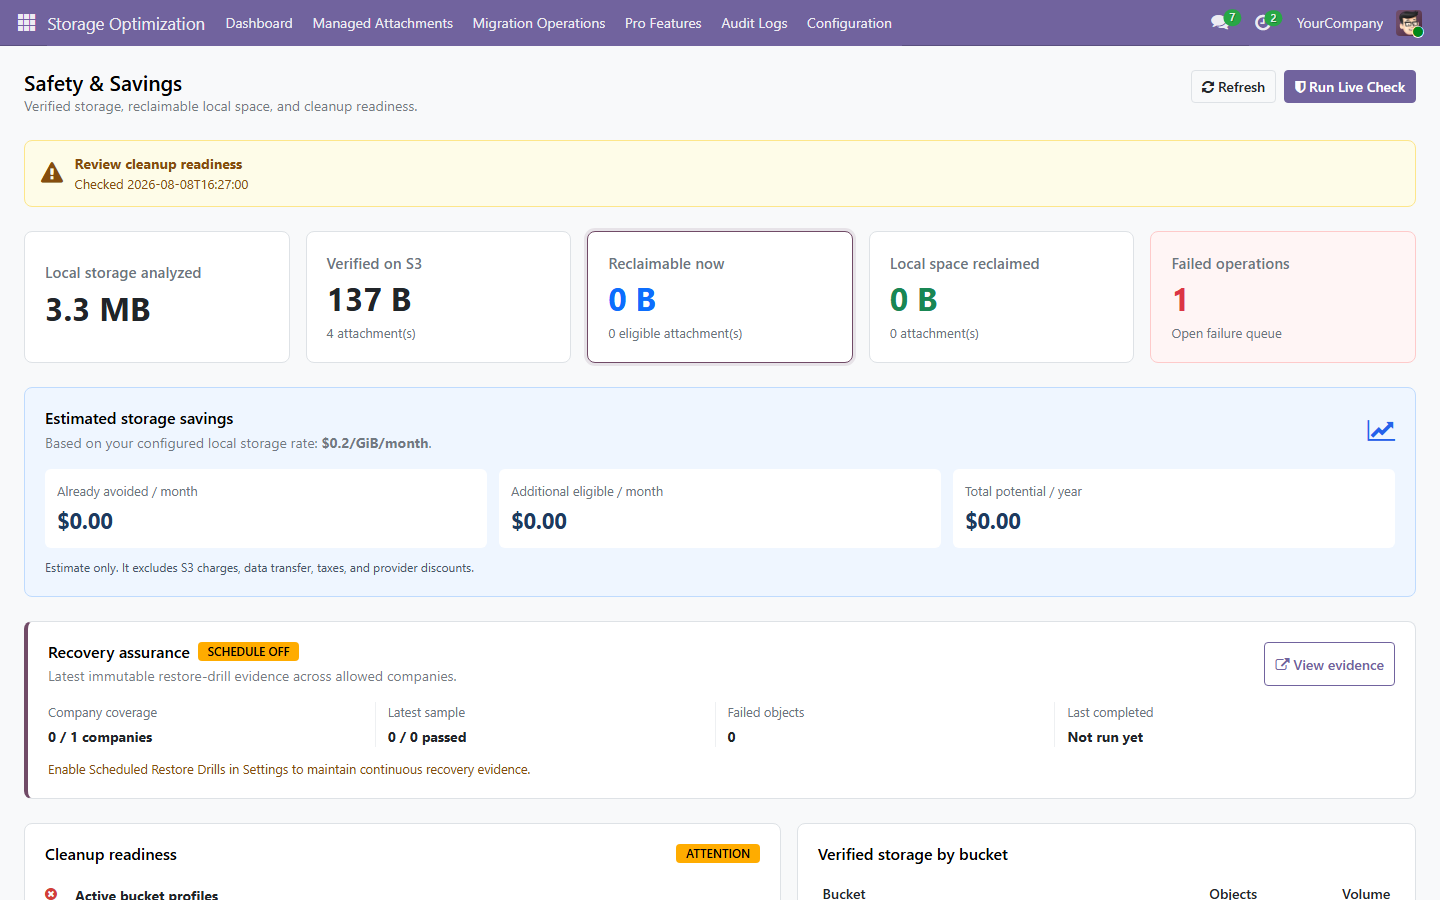
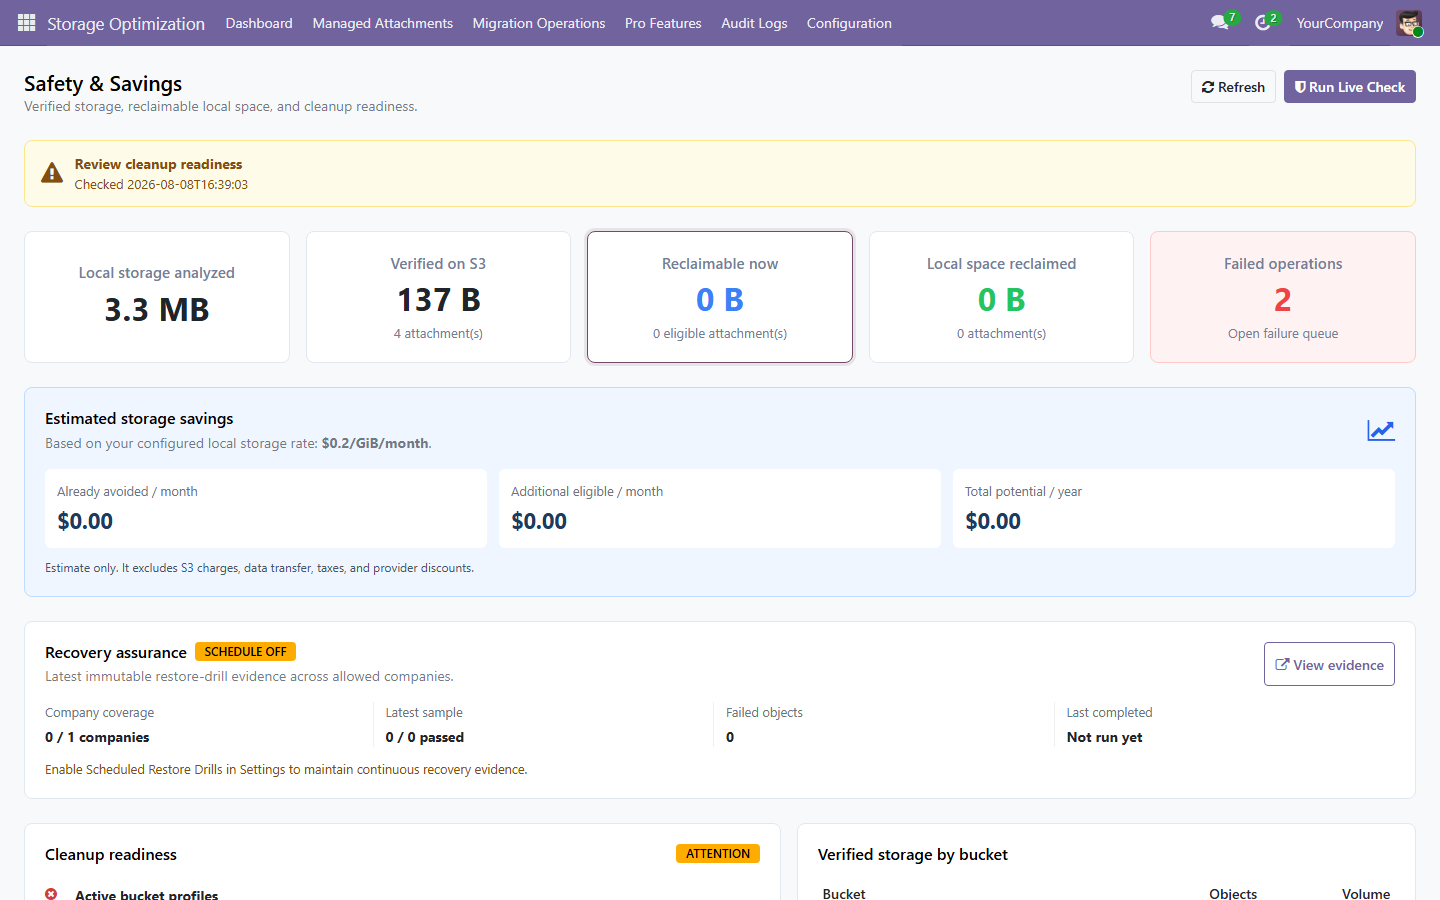
Align Pro dashboard visuals with Free

diff --git a/attachment_optimizer_pro/static/src/components/pro_dashboard/pro_dashboard.scss b/attachment_optimizer_pro/static/src/components/pro_dashboard/pro_dashboard.scss
@@ -1,10 +1,17 @@
 .o_pro_safety_dashboard {
     width: 100%;
+    max-width: none;
     margin: 0;
     padding: 24px;
     box-sizing: border-box;
     min-height: 100%;
     position: relative;
+}
+
+html .o_web_client .o_action_manager .o_pro_safety_dashboard {
+    width: 100%;
+    max-width: none;
+    margin: 0;
 }
 
 .o_pro_dashboard_header,
@@ -44,11 +51,12 @@
     min-width: 0;
     min-height: 124px;
     padding: 20px;
-    border: 1px solid #dee2e6;
+    border: 1px solid #e2e8f0;
     border-radius: 8px;
     background: var(--o-view-background-color, #fff);
     color: inherit;
-    text-align: left;
+    text-align: center;
+    align-items: center;
     display: flex;
     flex-direction: column;
     justify-content: center;
@@ -60,15 +68,15 @@
     font-variant-numeric: tabular-nums;
 }
 .o_pro_kpi_card small,
-.o_pro_kpi_label { color: var(--o-gray-600, #6c757d); }
+.o_pro_kpi_label { color: #718096; }
 .o_pro_kpi_label { font-size: .95rem; font-weight: 600; }
 .o_pro_kpi_action { cursor: pointer; transition: border-color .15s ease, box-shadow .15s ease; }
 .o_pro_kpi_action:hover,
 .o_pro_kpi_action:focus-visible { border-color: var(--o-brand-primary, #714b67); box-shadow: 0 0 0 3px rgba(113, 75, 103, .12); outline: 0; }
-.o_pro_kpi_primary strong { color: #0d6efd; }
-.o_pro_kpi_success strong { color: #198754; }
-.o_pro_kpi_danger { background: #fff5f5; border-color: #fecaca; }
-.o_pro_kpi_danger strong { color: #dc3545; }
+.o_pro_kpi_primary strong { color: #3b82f6; }
+.o_pro_kpi_success strong { color: #22c55e; }
+.o_pro_kpi_danger { background: #fef2f2; border-color: #fecaca; }
+.o_pro_kpi_danger strong { color: #ef4444; }
 
 .o_pro_savings_panel {
     margin-bottom: 24px;
@@ -104,8 +112,7 @@
 .o_pro_assurance_panel {
     margin-bottom: 24px;
     padding: 20px;
-    border: 1px solid #dee2e6;
-    border-left: 4px solid var(--o-brand-primary, #714b67);
+    border: 1px solid #e2e8f0;
     border-radius: 8px;
     background: var(--o-view-background-color, #fff);
 }
@@ -130,7 +137,7 @@
 .o_pro_assurance_hint { margin-top: 12px; color: #854d0e; font-size: .8rem; }
 .o_pro_assurance_error { color: #b42318; }
 .o_pro_dashboard_columns { display: grid; grid-template-columns: 1.1fr .9fr; gap: 16px; }
-.o_pro_panel { background: var(--o-view-background-color, #fff); border: 1px solid #dee2e6; border-radius: 8px; padding: 20px; }
+.o_pro_panel { background: var(--o-view-background-color, #fff); border: 1px solid #e2e8f0; border-radius: 8px; padding: 20px; }
 .o_pro_panel_header { align-items: center; margin-bottom: 12px; }
 .o_pro_check_list { display: flex; flex-direction: column; }
 .o_pro_check { display: grid; grid-template-columns: 20px 1fr; gap: 10px; padding: 10px 0; border-top: 1px solid #eef0f2; }

diff --git a/attachment_optimizer_pro/static/description/index.html b/attachment_optimizer_pro/static/description/index.html
@@ -96,6 +96,6 @@ For subsequent modules, update content inside sections only. Do not alter sectio
     </div>
 
     <!-- FOOTER -->
-    <div style="border:1px solid #e2e8f0; border-radius:16px; padding:32px 24px; margin:40px 0 16px; text-align:center;"><div style="font-size:14px; font-weight:700; color:#1e293b; text-transform:uppercase;">Attachment Optimizer Pro</div><p style="font-size:13px; color:#64748b; line-height:1.6;">Automated, verified S3-compatible attachment lifecycle management for Odoo.</p><div style="display:inline-block; border:2px solid #4f46e5; color:#4f46e5; font-weight:700; font-size:13px; padding:10px 28px; border-radius:8px;">US$49 · One-Time · No Subscription</div><p style="font-size:11px; color:#94a3b8; margin:20px 0 0;">Version 19.0.1.0.18 · Built and maintained by FoxPink</p></div>
+    <div style="border:1px solid #e2e8f0; border-radius:16px; padding:32px 24px; margin:40px 0 16px; text-align:center;"><div style="font-size:14px; font-weight:700; color:#1e293b; text-transform:uppercase;">Attachment Optimizer Pro</div><p style="font-size:13px; color:#64748b; line-height:1.6;">Automated, verified S3-compatible attachment lifecycle management for Odoo.</p><div style="display:inline-block; border:2px solid #4f46e5; color:#4f46e5; font-weight:700; font-size:13px; padding:10px 28px; border-radius:8px;">US$49 · One-Time · No Subscription</div><p style="font-size:11px; color:#94a3b8; margin:20px 0 0;">Version 19.0.1.0.19 · Built and maintained by FoxPink</p></div>
   </div>
 </section>

diff --git a/attachment_optimizer_pro/__manifest__.py b/attachment_optimizer_pro/__manifest__.py
@@ -1,6 +1,6 @@
 {
     "name": "Attachment Optimizer Pro",
-    "version": "19.0.1.0.18",
+    "version": "19.0.1.0.19",
     "category": "Storage",
     "summary": "Automation, cleanup, routing and lifecycle for S3-compatible attachment storage.",
     "description": """

diff --git a/README.md b/README.md
@@ -8,7 +8,7 @@ Only update product content, version, links, compatibility status, screenshots, 
 
 ![Attachment Optimizer Pro](attachment_optimizer_pro/static/description/preview.png)
 
-**Version:** 19.0.1.0.18 -- **License:** OPL-1 -- **Publisher:** FoxPink -- Maintained for **Odoo 19.0**
+**Version:** 19.0.1.0.19 -- **License:** OPL-1 -- **Publisher:** FoxPink -- Maintained for **Odoo 19.0**
 
 ---
 
